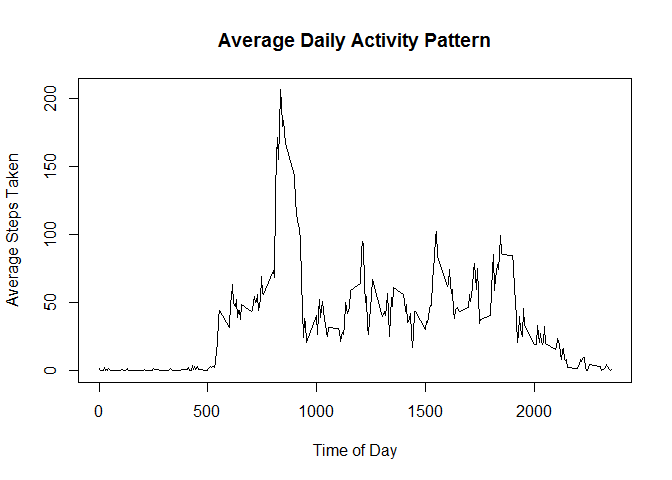
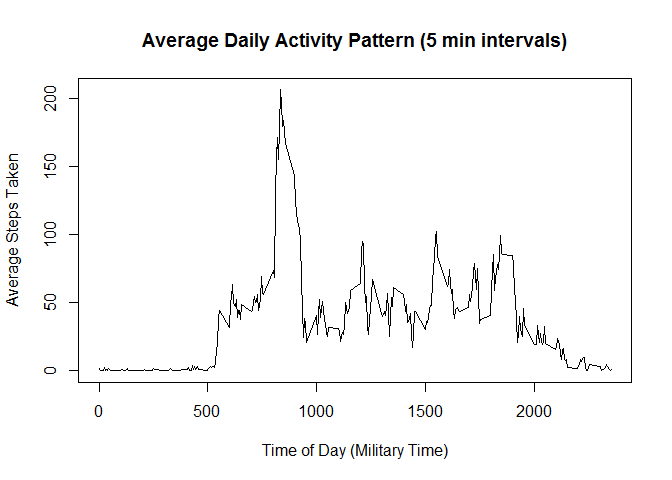
Finished Assignment!

Changed region(s): [[0.1875, 0.0625, 0.8438, 0.125], [0.375, 0.9062, 0.6875, 0.9688]]

diff --git a/PA1_template.html b/PA1_template.html
@@ -66,6 +66,7 @@ img {
 
 <div id="loading-and-preprocessing-the-data" class="section level2">
 <h2>Loading and preprocessing the data</h2>
+<p>The variables included in this dataset are: steps: Number of steps taking in a 5-minute interval (missing values are coded as NA) date: The date on which the measurement was taken in YYYY-MM-DD format interval: Identifier for the 5-minute interval in which measurement was taken</p>
 <pre class="r"><code>data &lt;- read.csv(&quot;activity.csv&quot;)
 str(data) ##loading data and showing structure</code></pre>
 <pre><code>## 'data.frame':    17568 obs. of  3 variables:
@@ -93,24 +94,25 @@ median1</code></pre>
 <h2>What is the average daily activity pattern?</h2>
 <pre class="r"><code>interval &lt;- aggregate(data$steps, list(data = data$interval), mean, na.rm = TRUE)
 plot(interval$data, interval$x, type = &quot;l&quot;,
-     main = &quot;Average Daily Activity Pattern&quot;,
-     xlab = &quot;Time of Day&quot;,
+     main = &quot;Average Daily Activity Pattern (5 min intervals)&quot;,
+     xlab = &quot;Time of Day (Military Time)&quot;,
      ylab = &quot;Average Steps Taken&quot;)</code></pre>
[2 lines of base64/hex data omitted]
 <pre class="r"><code>maxinterval &lt;- interval[which.max(interval[,2]),]
 maxinterval[,1]    ## 5 minute time interval with the most average steps</code></pre>
 <pre><code>## [1] 835</code></pre>
 </div>
 <div id="imputing-missing-values" class="section level2">
 <h2>Imputing missing values</h2>
+<p>There are many missing rows, so we attempt to imput the missing values. Logic for imputing missing values: if stepcount for a given row is NA, replace it in the mean step count for that 5-minute interval (as calculated in the previous section).</p>
 <pre class="r"><code>sum(is.na(data$steps)) ## Total number of rows with missing data</code></pre>
 <pre><code>## [1] 2304</code></pre>
-<pre class="r"><code>## Logic for imputing missing values: if step count for a given row is NA, put in the mean step count for that 5-minute interval. To do this, iterate over each row of the dataset.
-
+<pre class="r"><code>## Iterate over each row of the dataset to replace NA values
 for (i in 1:length(data$steps)) {                                
     if (is.na(data[i,1])) {
-       a &lt;- data[i,3] ##find the interval value for the missing row
-       data[i,1] = 10
+       a &lt;- data[i,3] ## find the interval value for the missing row
+       b &lt;- interval[interval$data == a,] ## find the mean to match that interval value
+       data[i,1] = b[,2] ##replace the NA value
        }
 }
  
@@ -123,23 +125,54 @@ hist(steps2$x,
      main = &quot;Distribution of Total Steps per Day, NAs imputed&quot;,
      xlab = &quot;# of Steps&quot;,
      ylab = &quot;Frequency&quot;)</code></pre>
[2 lines of base64/hex data omitted]
+<p>Due to our logic, the mean stays the same as in the original data set, but the median changes slightly.</p>
 <pre class="r"><code>mean2 &lt;- mean(steps2$x, na.rm = TRUE) ## New mean total steps per day
 mean2</code></pre>
-<pre><code>## [1] 9731.934</code></pre>
+<pre><code>## [1] 10766.19</code></pre>
 <pre class="r"><code>median2 &lt;- median(steps2$x, na.rm = TRUE) ## New median total steps per day
 median2</code></pre>
-<pre><code>## [1] 10395</code></pre>
+<pre><code>## [1] 10766.19</code></pre>
 <pre class="r"><code>meandifference &lt;- mean1 - mean2
 meandifference ## what is the difference between the means from the first and second data sets?</code></pre>
-<pre><code>## [1] 1034.254</code></pre>
+<pre><code>## [1] 0</code></pre>
 <pre class="r"><code>mediandifference &lt;- median1 - median2
 mediandifference ## what is the difference between the medians from the first and second data sets?</code></pre>
-<pre><code>## [1] 370</code></pre>
+<pre><code>## [1] -1.188679</code></pre>
 </div>
 <div id="are-there-differences-in-activity-patterns-between-weekdays-and-weekends" class="section level2">
 <h2>Are there differences in activity patterns between weekdays and weekends?</h2>
-<pre class="r"><code>data2$weektype &lt;- weekdays(as.Date(data2$date)) ## add column for weekday vs. weekend</code></pre>
+<pre class="r"><code>data2$weektype &lt;- weekdays(as.Date(data2$date)) ## add column for weekday vs. weekend
+
+for (i in 1:length(data2$weektype)) {                                
+    if (data2[i,4] == &quot;Saturday&quot; || data2[i,4] == &quot;Sunday&quot;) {
+        data2[i,4] &lt;- &quot;weekend&quot;
+    } else {
+        data2[i,4] &lt;- &quot;weekday&quot;
+    }
+}
+
+data2$weektype &lt;- as.factor(data2$weektype) ## convert new column to factor
+
+## subsetting original data to calculate means for weekday and weekends, then recombining with rbind
+onlyweekdays &lt;- data2[data2$weektype == &quot;weekday&quot;,]
+onlyweekends &lt;- data2[data2$weektype == &quot;weekend&quot;,]
+weekdayavg &lt;- aggregate(onlyweekdays$steps, list(data = onlyweekdays$interval), mean)
+weekdayavg$weektype &lt;- &quot;weekday&quot;
+weekendavg &lt;- aggregate(onlyweekends$steps, list(data = onlyweekends$interval), mean)
+weekendavg$weektype &lt;- &quot;weekend&quot;
+intervals2 &lt;- rbind(weekdayavg, weekendavg)
+
+library(ggplot2) ## using ggplot for the panel plot!
+g &lt;- ggplot(intervals2, aes(data,x)) + 
+    geom_line(color = &quot;olivedrab&quot;) + 
+    geom_point(color = &quot;olivedrab&quot;) +
+    xlab(&quot;Time of Day (Military Time)&quot;) + 
+    ylab(&quot;Average Steps Taken&quot;) +
+    ggtitle(&quot;Average Daily Activity Pattern&quot;) + 
+    facet_grid(weektype ~ .) 
+g</code></pre>
[1 lines of base64/hex data omitted]
 </div>
 
 

diff --git a/PA1_template.md b/PA1_template.md
@@ -3,6 +3,11 @@
 
 ## Loading and preprocessing the data
 
+The variables included in this dataset are:
+    steps: Number of steps taking in a 5-minute interval (missing values are coded as NA)
+    date: The date on which the measurement was taken in YYYY-MM-DD format
+    interval: Identifier for the 5-minute interval in which measurement was taken
+
 
 ```r
 data <- read.csv("activity.csv")
@@ -54,8 +59,8 @@ median1
 ```r
 interval <- aggregate(data$steps, list(data = data$interval), mean, na.rm = TRUE)
 plot(interval$data, interval$x, type = "l",
-     main = "Average Daily Activity Pattern",
-     xlab = "Time of Day",
+     main = "Average Daily Activity Pattern (5 min intervals)",
+     xlab = "Time of Day (Military Time)",
      ylab = "Average Steps Taken")
 ```
 
@@ -70,8 +75,9 @@ maxinterval[,1]    ## 5 minute time interval with the most average steps
 ## [1] 835
 ```
 
-
 ## Imputing missing values
+
+There are many missing rows, so we attempt to imput the missing values. Logic for imputing missing values: if stepcount for a given row is NA, replace it in the mean step count for that 5-minute interval (as calculated in the previous section).
 
 
 ```r
@@ -83,12 +89,12 @@ sum(is.na(data$steps)) ## Total number of rows with missing data
 ```
 
 ```r
-## Logic for imputing missing values: if step count for a given row is NA, put in the mean step count for that 5-minute interval. To do this, iterate over each row of the dataset.
-
+## Iterate over each row of the dataset to replace NA values
 for (i in 1:length(data$steps)) {                                
     if (is.na(data[i,1])) {
-       a <- data[i,3] ##find the interval value for the missing row
-       data[i,1] = 10
+       a <- data[i,3] ## find the interval value for the missing row
+       b <- interval[interval$data == a,] ## find the mean to match that interval value
+       data[i,1] = b[,2] ##replace the NA value
        }
 }
  
@@ -105,13 +111,16 @@ hist(steps2$x,
 
 ![](PA1_template_files/figure-html/unnamed-chunk-4-1.png) 
 
+Due to our logic, the mean stays the same as in the original data set, but the median changes slightly.
+
+
 ```r
 mean2 <- mean(steps2$x, na.rm = TRUE) ## New mean total steps per day
 mean2
 ```
 
 ```
-## [1] 9731.934
+## [1] 10766.19
 ```
 
 ```r
@@ -120,7 +129,7 @@ median2
 ```
 
 ```
-## [1] 10395
+## [1] 10766.19
 ```
 
 ```r
@@ -129,7 +138,7 @@ meandifference ## what is the difference between the means from the first and se
 ```
 
 ```
-## [1] 1034.254
+## [1] 0
 ```
 
 ```r
@@ -138,7 +147,7 @@ mediandifference ## what is the difference between the medians from the first an
 ```
 
 ```
-## [1] 370
+## [1] -1.188679
 ```
 
 ## Are there differences in activity patterns between weekdays and weekends?
@@ -146,4 +155,35 @@ mediandifference ## what is the difference between the medians from the first an
 
 ```r
 data2$weektype <- weekdays(as.Date(data2$date)) ## add column for weekday vs. weekend
+
+for (i in 1:length(data2$weektype)) {                                
+    if (data2[i,4] == "Saturday" || data2[i,4] == "Sunday") {
+        data2[i,4] <- "weekend"
+    } else {
+        data2[i,4] <- "weekday"
+    }
+}
+
+data2$weektype <- as.factor(data2$weektype) ## convert new column to factor
+
+## subsetting original data to calculate means for weekday and weekends, then recombining with rbind
+onlyweekdays <- data2[data2$weektype == "weekday",]
+onlyweekends <- data2[data2$weektype == "weekend",]
+weekdayavg <- aggregate(onlyweekdays$steps, list(data = onlyweekdays$interval), mean)
+weekdayavg$weektype <- "weekday"
+weekendavg <- aggregate(onlyweekends$steps, list(data = onlyweekends$interval), mean)
+weekendavg$weektype <- "weekend"
+intervals2 <- rbind(weekdayavg, weekendavg)
+
+library(ggplot2) ## using ggplot for the panel plot!
+g <- ggplot(intervals2, aes(data,x)) + 
+    geom_line(color = "olivedrab") + 
+    geom_point(color = "olivedrab") +
+    xlab("Time of Day (Military Time)") + 
+    ylab("Average Steps Taken") +
+    ggtitle("Average Daily Activity Pattern") + 
+    facet_grid(weektype ~ .) 
+g
 ```
+
+![](PA1_template_files/figure-html/unnamed-chunk-6-1.png) 
